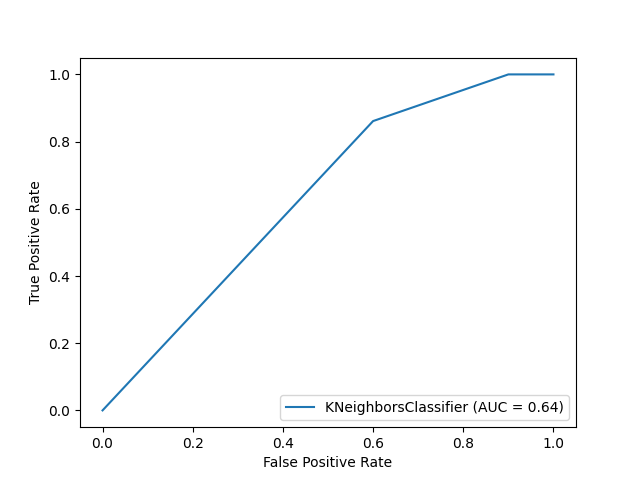
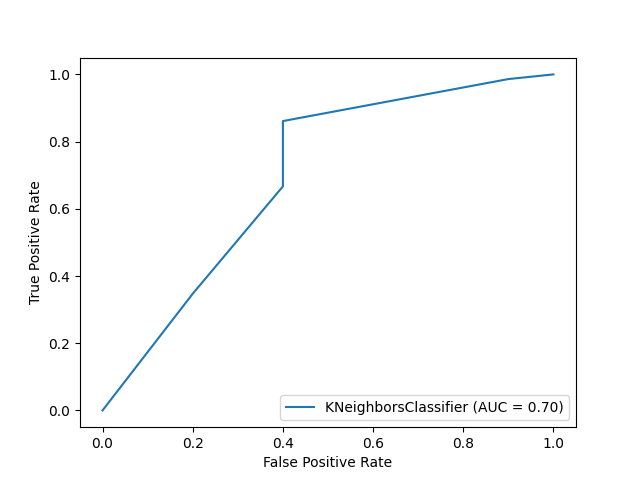
Added SMOTE and Undersampling to all algorithms

diff --git a/src/knn.py b/src/knn.py
@@ -7,6 +7,7 @@ from sklearn.neighbors import KNeighborsClassifier
 from sklearn.metrics import classification_report, confusion_matrix, roc_auc_score
 from sklearn import metrics
 
+from smote import smote_sampling
 from plot import plot_auc
 
 
@@ -23,6 +24,8 @@ def knn_loan(train_dataset, test_dataset, eval_dataset, selected_features):
     y_test = y_test.values
     X_train = X_train.values
     y_train = y_train.values
+
+    X_train, y_train = smote_sampling(X_train, y_train)
 
     scaler = StandardScaler()
     scaler.fit(X_train)
@@ -52,6 +55,7 @@ def knn_loan(train_dataset, test_dataset, eval_dataset, selected_features):
     print(str(confusion_matrix(y_test, y_pred)))
     print(str(classification_report(y_test, y_pred, zero_division=0)))
     print(f"AUC: {roc_auc_score(y_test, y_pred)}")
+    print(f"Best K: {best_k}")
 
     plot_auc(knn, X_test, y_test, "knn")
 

diff --git a/src/crforest.py b/src/crforest.py
@@ -5,14 +5,11 @@ from sklearn.preprocessing import StandardScaler
 from sklearn.ensemble import RandomForestClassifier
 from sklearn.metrics import classification_report, confusion_matrix, roc_auc_score, accuracy_score
 
-from preprocessing import down_sampling, forward_selection
 from smote import smote_sampling
 from plot import plot_auc
 
 
 def crforest_loan(train_dataset, test_dataset, eval_dataset, selected_features):
-    #train_dataset = down_sampling(train_dataset)
-
     X_test = test_dataset.drop(columns=["status"])
     y_test = test_dataset.iloc[:, -1]
     X_train = train_dataset.drop(columns=["status"])

diff --git a/src/svm.py b/src/svm.py
@@ -5,6 +5,7 @@ from sklearn.preprocessing import StandardScaler
 from sklearn.svm import SVC
 from sklearn.metrics import classification_report, confusion_matrix, roc_auc_score, accuracy_score
 
+from smote import smote_sampling
 from plot import plot_auc
 
 
@@ -21,6 +22,8 @@ def svm_loan(train_dataset, test_dataset, eval_dataset, selected_features):
     y_test = y_test.values
     X_train = X_train.values
     y_train = y_train.values
+
+    X_train, y_train = smote_sampling(X_train, y_train)
 
     scaler = StandardScaler()
     scaler.fit(X_train)
